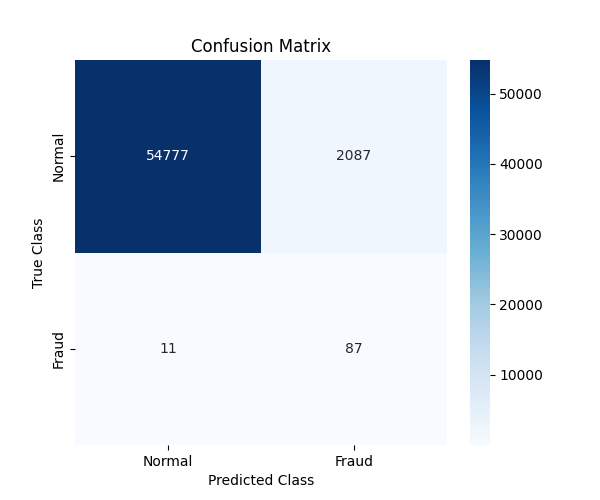
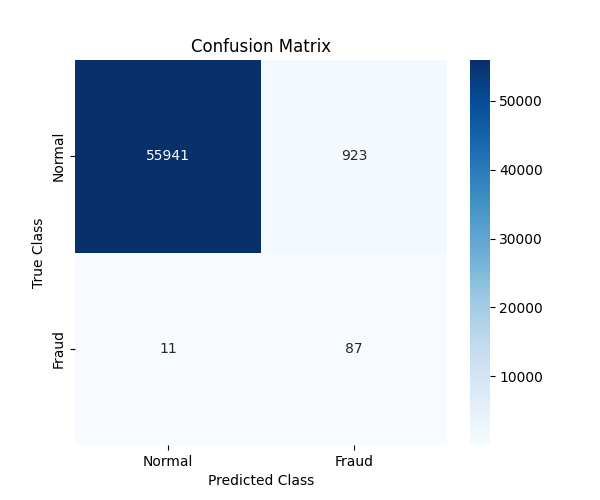
Feat: Add manual evaluation script and optimization tools, update threshold

diff --git a/optimize_threshold.py b/optimize_threshold.py
@@ -1,0 +1,113 @@
+# optimize_threshold.py
+import yaml
+import numpy as np
+import pandas as pd
+import matplotlib.pyplot as plt
+import seaborn as sns
+from sklearn.metrics import precision_recall_curve, f1_score, confusion_matrix
+from src.data_loader import DataLoader
+from src.autoencoder import AutoencoderBuilder
+
+def calculate_cost(y_true, y_pred, cost_fn, cost_fp):
+    cm = confusion_matrix(y_true, y_pred)
+    # cm structure: [[TN, FP], [FN, TP]]
+    tn, fp, fn, tp = cm.ravel()
+    return (fn * cost_fn) + (fp * cost_fp)
+
+def main():
+    # 1. Load Config & Data
+    with open("config/config.yaml", "r") as f:
+        config = yaml.safe_load(f)
+    
+    loader = DataLoader(config['paths']['raw_data'], config)
+    # We only need the Test set to find the threshold
+    _, X_test, y_test = loader.load_and_preprocess()
+    
+    # 2. Load Model
+    print("[INFO] Loading Model...")
+    input_dim = X_test.shape[1]
+    model = AutoencoderBuilder.build(input_dim, config)
+    model.load_weights(config['paths']['model_save'])
+    
+    # 3. Get Reconstruction Errors
+    print("[INFO] Predicting...")
+    reconstructions = model.predict(X_test, verbose=0)
+    mse = np.mean(np.power(X_test - reconstructions, 2), axis=1)
+    
+    # 4. Analyze Thresholds
+    thresholds = np.linspace(np.min(mse), np.percentile(mse, 99), 100)
+    precisions = []
+    recalls = []
+    f1_scores = []
+    costs = []
+    
+    # BUSINESS ASSUMPTIONS (CHANGE THESE TO MATCH REALITY)
+    COST_OF_MISSED_FRAUD = 500.00  # Losing the money
+    COST_OF_FALSE_ALARM = 5.00     # Cost of SMS/Support call
+    
+    print("[INFO] Optimizing...")
+    for th in thresholds:
+        y_pred = (mse > th).astype(int)
+        
+        # Calculate Metrics
+        p, r, _ = precision_recall_curve(y_test, mse) # This returns arrays, slightly inefficient for loop
+        # Simpler way for scalar metrics:
+        tn, fp, fn, tp = confusion_matrix(y_test, y_pred).ravel()
+        
+        prec = tp / (tp + fp) if (tp + fp) > 0 else 0
+        rec = tp / (tp + fn) if (tp + fn) > 0 else 0
+        f1 = 2 * (prec * rec) / (prec + rec) if (prec + rec) > 0 else 0
+        
+        cost = (fn * COST_OF_MISSED_FRAUD) + (fp * COST_OF_FALSE_ALARM)
+        
+        precisions.append(prec)
+        recalls.append(rec)
+        f1_scores.append(f1)
+        costs.append(cost)
+
+    # 5. Find Winners
+    best_f1_idx = np.argmax(f1_scores)
+    best_cost_idx = np.argmin(costs)
+    
+    print("\n" + "="*40)
+    print("OPTIMIZATION RESULTS")
+    print("="*40)
+    print(f"Strategy 1: Best F1 Score")
+    print(f"   Threshold: {thresholds[best_f1_idx]:.4f}")
+    print(f"   F1: {f1_scores[best_f1_idx]:.4f}")
+    print("-" * 40)
+    print(f"Strategy 2: Minimum Business Cost")
+    print(f"   Assumption: Missed Fraud=${COST_OF_MISSED_FRAUD}, False Alarm=${COST_OF_FALSE_ALARM}")
+    print(f"   Threshold: {thresholds[best_cost_idx]:.4f}")
+    print(f"   Total Cost: ${costs[best_cost_idx]:,.2f}")
+    print("="*40)
+    
+    # 6. Plotting
+    plt.figure(figsize=(12, 5))
+    
+    # Subplot 1: Precision/Recall/F1
+    plt.subplot(1, 2, 1)
+    plt.plot(thresholds, precisions, label='Precision (Low False Alarms)', linestyle='--')
+    plt.plot(thresholds, recalls, label='Recall (Catching Fraud)', color='green')
+    plt.plot(thresholds, f1_scores, label='F1 Score', color='red')
+    plt.axvline(thresholds[best_f1_idx], color='k', linestyle=':', label='Best F1')
+    plt.title("Metric-Based Optimization")
+    plt.xlabel("Threshold")
+    plt.ylabel("Score")
+    plt.legend()
+    
+    # Subplot 2: Cost Curve
+    plt.subplot(1, 2, 2)
+    plt.plot(thresholds, costs, color='purple', label='Total Cost ($)')
+    plt.axvline(thresholds[best_cost_idx], color='k', linestyle=':', label='Min Cost')
+    plt.title("Financial Cost Optimization")
+    plt.xlabel("Threshold")
+    plt.ylabel("Cost ($)")
+    plt.legend()
+    
+    output_path = "outputs/plots/threshold_optimization.png"
+    plt.savefig(output_path)
+    print(f"[INFO] Analysis Plot saved to {output_path}")
+
+if __name__ == "__main__":
+    main()

diff --git a/evaluate.py b/evaluate.py
@@ -1,0 +1,78 @@
+# evaluate.py
+import yaml
+import joblib
+import numpy as np
+import pandas as pd
+import tensorflow as tf
+from src.data_loader import DataLoader
+from src.utils import ModelEvaluator
+
+def main():
+    # 1. Load Config
+    with open("config/config.yaml", "r") as f:
+        config = yaml.safe_load(f)
+        
+    print("[INFO] Loading system artifacts...")
+    
+    # 2. Load Model & Scaler
+    model = tf.keras.models.load_model(config['paths']['model_save'])
+    # Scaler is needed if we are processing raw data, but DataLoader handles preprocessing.
+    # However, DataLoader fits a NEW scaler if we call load_and_preprocess without careful logic.
+    # Actually, DataLoader.load_and_preprocess fits/transforms based on training logic.
+    # For evaluation, we must strictly use the SAVED scaler.
+    
+    # Let's verify DataLoader logic. It uses Preprocessor.
+    # We should manually handle data loading to ensure we don't re-fit.
+    
+    # Load raw data
+    df = pd.read_csv(config['paths']['raw_data'])
+    
+    # Drop Time
+    if 'Time' in df.columns:
+        df = df.drop(['Time'], axis=1)
+        
+    X = df.drop(['Class'], axis=1)
+    y = df['Class']
+    
+    # Load Scaler
+    scaler = joblib.load(config['paths']['scaler_save'])
+    X_scaled = scaler.transform(X) # Transform ALL data or just test?
+    
+    # Let's use the standard split to be consistent with training
+    from sklearn.model_selection import train_test_split
+    _, X_test, _, y_test = train_test_split(
+        X, y, 
+        test_size=config['data']['test_size'], 
+        random_state=config['data']['random_state'],
+        stratify=y
+    )
+    
+    X_test_scaled = scaler.transform(X_test)
+    
+    # 3. Load Custom Threshold
+    try:
+        with open("models/saved/threshold.txt", "r") as f:
+            threshold = float(f.read().strip())
+        print(f"[INFO] Using Customer Threshold: {threshold}")
+    except Exception as e:
+        print(f"[ERROR] Could not read threshold.txt: {e}")
+        return
+
+    # 4. Predict
+    print("[INFO] Running Inference on Test Set...")
+    reconstructions = model.predict(X_test_scaled, verbose=0)
+    
+    # 5. Evaluate
+    evaluator = ModelEvaluator(model, config)
+    mse = evaluator.calculate_mse(X_test_scaled, reconstructions)
+    
+    # Print Report
+    evaluator.print_report(y_test, mse, threshold)
+    
+    # Generate Plots
+    print(f"[INFO] Generating diagrams with threshold {threshold}...")
+    evaluator.plot_reconstruction_error(mse, y_test, threshold)
+    evaluator.plot_roc(y_test, mse)
+
+if __name__ == "__main__":
+    main()
